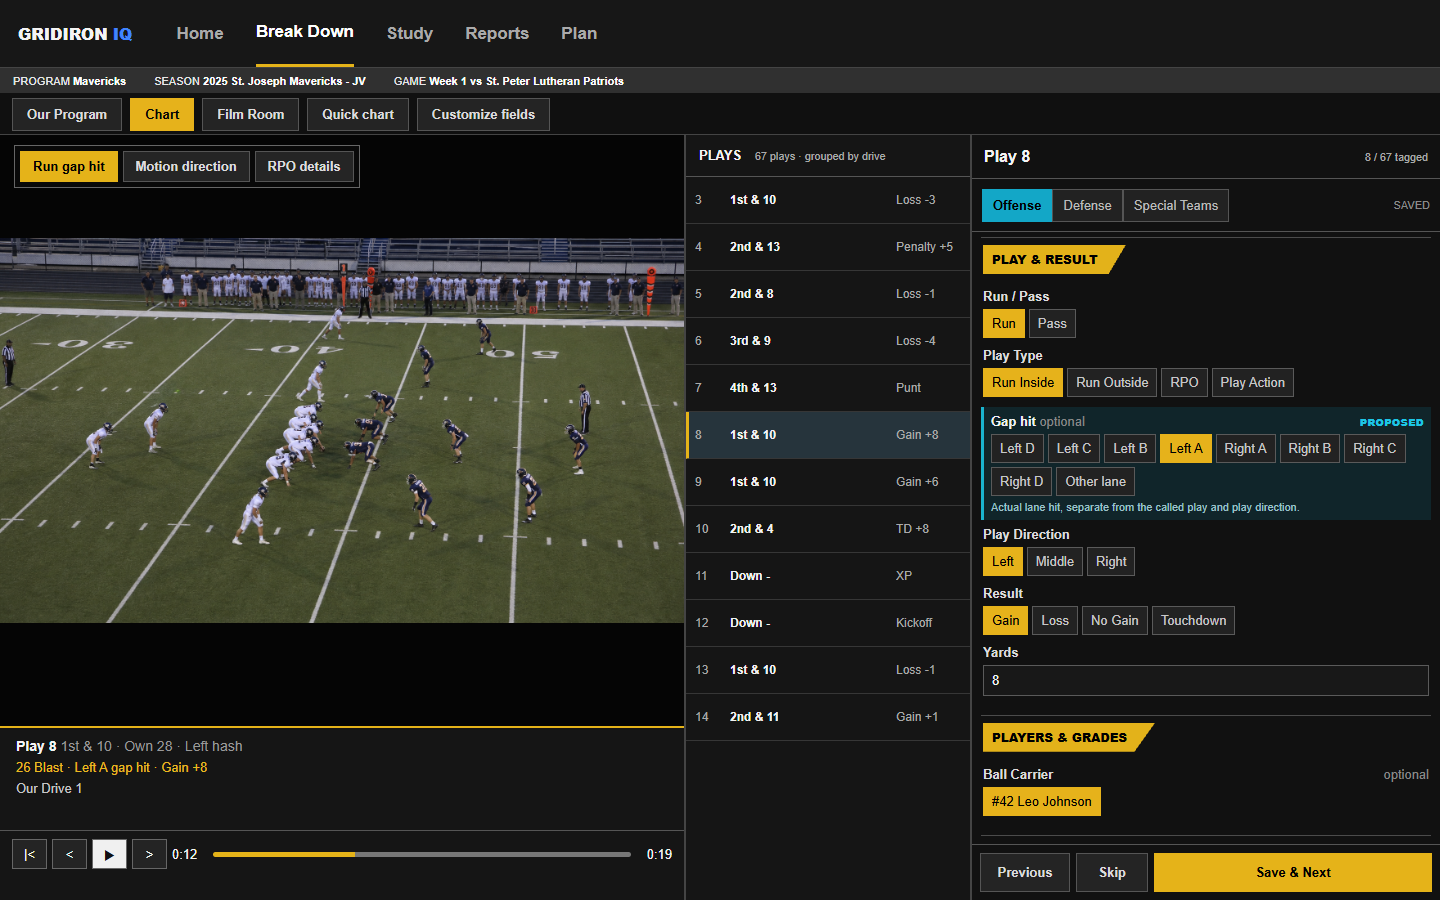
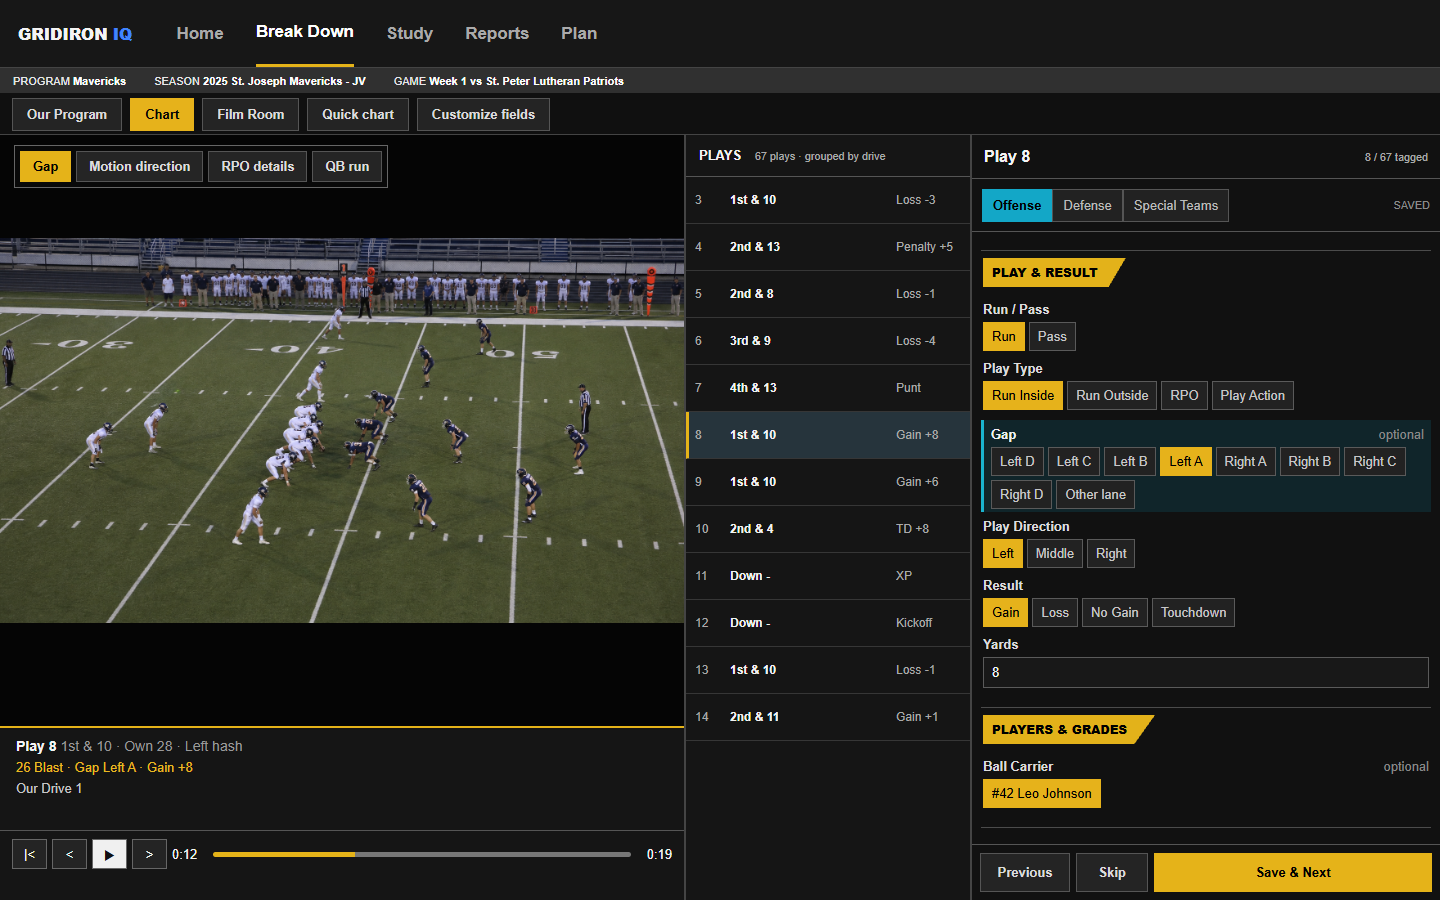
Refine charting comp labels and add QB run state

diff --git a/design-comps/breakdown-charting-2026-09-27/index.html b/design-comps/breakdown-charting-2026-09-27/index.html
@@ -68,8 +68,6 @@
     .new-field { margin:8px -2px 0; padding:7px 7px 3px; border-left:3px solid #1ab4cf; background:#10252a; }
     .new-field .field:first-child { margin-top:0; }
     .new-field .field-label { color:#f2f2f2; }
-    .tag { color:#1dc6e5; text-transform:uppercase; font-size:10px; font-weight:800; letter-spacing:.4px; }
-    .help { color:#9ec1c8; font-size:11px; line-height:1.35; margin:4px 0 2px; }
     .scenario { display:none; }
     .scenario.active { display:contents; }
     .save { display:grid; grid-template-columns:90px 72px minmax(0,1fr); gap:6px; padding:8px; border-top:1px solid #555; }
@@ -92,41 +90,49 @@
       <aside class="plays"><div class="plays-head">PLAYS <small>67 plays · grouped by drive</small></div><div class="play-list"><div class="play-row"><span>3</span><b>1st &amp; 10</b><span>Loss -3</span></div><div class="play-row"><span>4</span><b>2nd &amp; 13</b><span>Penalty +5</span></div><div class="play-row"><span>5</span><b>2nd &amp; 8</b><span>Loss -1</span></div><div class="play-row"><span>6</span><b>3rd &amp; 9</b><span>Loss -4</span></div><div class="play-row"><span>7</span><b>4th &amp; 13</b><span>Punt</span></div><div class="play-row current"><span>8</span><b>1st &amp; 10</b><span>Gain +8</span></div><div class="play-row"><span>9</span><b>1st &amp; 10</b><span>Gain +6</span></div><div class="play-row"><span>10</span><b>2nd &amp; 4</b><span>TD +8</span></div><div class="play-row"><span>11</span><b>Down -</b><span>XP</span></div><div class="play-row"><span>12</span><b>Down -</b><span>Kickoff</span></div><div class="play-row"><span>13</span><b>1st &amp; 10</b><span>Loss -1</span></div><div class="play-row"><span>14</span><b>2nd &amp; 11</b><span>Gain +1</span></div></div></aside>
       <section class="deck" aria-label="Charting deck"><div class="deck-head"><strong>Play 8</strong><small>8 / 67 tagged</small></div><div class="unit"><button class="active">Offense</button><button>Defense</button><button>Special Teams</button><span class="mode">SAVED</span></div><div class="deck-body"><div class="section"><span class="section-title">SITUATION</span><div class="select-line"><div class="field"><div class="field-label">Quarter</div><div class="chips"><button class="chip on">Q1</button><button class="chip">Q2</button></div></div><div class="field"><div class="field-label">Down</div><div class="chips"><button class="chip on">1</button><button class="chip">2</button><button class="chip">3</button></div></div><div class="field"><div class="field-label">Distance</div><input class="input" value="10" aria-label="Distance"></div></div></div>
       <div class="section"><span class="section-title">OUR OFFENSIVE LOOK</span><div class="field"><div class="field-label">Play Call</div><input class="input" id="play-call" value="26 Blast" aria-label="Play call"></div><div class="field"><div class="field-label">Formation</div><div class="chips"><button class="chip">Spread</button><button class="chip">Trips</button><button class="chip on">Power-I</button><button class="chip">Flexbone</button></div></div><div class="field"><div class="field-label">Motion <span class="optional">optional</span></div><div class="chips"><button class="chip" id="jet-chip">Jet</button><button class="chip">Orbit</button><button class="chip">Shift</button><button class="chip">Other</button></div></div>
-      <div class="scenario" data-scenario="motion"><div class="new-field"><div class="field-label"><span>Motion path</span><span class="tag">Proposed</span></div><div class="field"><div class="field-label">Starts</div><div class="chips"><button class="chip on">Left</button><button class="chip">Middle</button><button class="chip">Right</button></div></div><div class="field"><div class="field-label">Ends</div><div class="chips"><button class="chip">Left</button><button class="chip">Middle</button><button class="chip on">Right</button></div></div><div class="help">Offense's perspective. Each endpoint can be left blank.</div></div></div></div>
+      <div class="scenario" data-scenario="motion"><div class="new-field"><div class="field-label">Motion path</div><div class="field"><div class="field-label">Starts</div><div class="chips"><button class="chip on">Left</button><button class="chip">Middle</button><button class="chip">Right</button></div></div><div class="field"><div class="field-label">Ends</div><div class="chips"><button class="chip">Left</button><button class="chip">Middle</button><button class="chip on">Right</button></div></div></div></div></div>
       <div class="section"><span class="section-title cyan">DEFENSE FACED</span><div class="field"><div class="field-label">Front</div><div class="chips"><button class="chip">4-3</button><button class="chip on">5-2</button><button class="chip">3-4</button><button class="chip">Nickel</button></div></div><div class="field"><div class="field-label">Coverage</div><div class="chips"><button class="chip">Cover 1</button><button class="chip on">Cover 3</button><button class="chip">Cover 4</button></div></div></div>
       <div class="section"><span class="section-title">PLAY &amp; RESULT</span><div class="field"><div class="field-label">Run / Pass</div><div class="chips"><button class="chip on">Run</button><button class="chip">Pass</button></div></div><div class="field"><div class="field-label">Play Type</div><div class="chips"><button class="chip on">Run Inside</button><button class="chip">Run Outside</button><button class="chip">RPO</button><button class="chip">Play Action</button></div></div>
-      <div class="scenario" data-scenario="gap"><div class="new-field"><div class="field-label"><span>Gap hit <span class="optional">optional</span></span><span class="tag">Proposed</span></div><div class="chips"><button class="chip">Left D</button><button class="chip">Left C</button><button class="chip">Left B</button><button class="chip on">Left A</button><button class="chip">Right A</button><button class="chip">Right B</button><button class="chip">Right C</button><button class="chip">Right D</button><button class="chip">Other lane</button></div><div class="help">Actual lane hit, separate from the called play and play direction.</div></div></div>
-      <div class="scenario" data-scenario="rpo"><div class="new-field"><div class="field-label"><span>RPO details</span><span class="tag">Proposed vocabulary</span></div><div class="field"><div class="field-label">Read defender <span class="optional">optional</span></div><div class="chips"><button class="chip">End</button><button class="chip on">Apex</button><button class="chip">Box</button><button class="chip">Other</button></div></div><div class="field"><div class="field-label">Defender # <span class="optional">optional</span></div><input class="input" value="" placeholder="Jersey number, if visible" aria-label="Read defender jersey number"></div><div class="field"><div class="field-label">Decision <span class="optional">optional</span></div><div class="chips"><button class="chip">Give</button><button class="chip">Keep</button><button class="chip on">Throw</button></div></div><div class="help">Decision is distinct from the resulting Run / Pass classification.</div></div></div>
+      <div class="scenario" data-scenario="gap"><div class="new-field"><div class="field-label">Gap <span class="optional">optional</span></div><div class="chips"><button class="chip">Left D</button><button class="chip">Left C</button><button class="chip">Left B</button><button class="chip on">Left A</button><button class="chip">Right A</button><button class="chip">Right B</button><button class="chip">Right C</button><button class="chip">Right D</button><button class="chip">Other lane</button></div></div></div>
+      <div class="scenario" data-scenario="rpo"><div class="new-field"><div class="field-label">RPO details</div><div class="field"><div class="field-label">Read defender <span class="optional">optional</span></div><div class="chips"><button class="chip">End</button><button class="chip on">Apex</button><button class="chip">Box</button><button class="chip">Other</button></div></div><div class="field"><div class="field-label">Defender # <span class="optional">optional</span></div><input class="input" value="" placeholder="Jersey number" aria-label="Read defender jersey number"></div><div class="field"><div class="field-label">Decision <span class="optional">optional</span></div><div class="chips"><button class="chip">Give</button><button class="chip">Keep</button><button class="chip on">Throw</button></div></div></div></div>
+      <div class="scenario" data-scenario="qb"><div class="new-field"><div class="field-label">QB run</div><div class="field"><div class="field-label">Run type</div><div class="chips"><button class="chip on">Designed</button><button class="chip">Scramble</button><button class="chip">RPO keeper</button></div></div><div class="field"><div class="field-label">Gap <span class="optional">optional</span></div><div class="chips"><button class="chip">Left D</button><button class="chip">Left C</button><button class="chip">Left B</button><button class="chip">Left A</button><button class="chip">Right A</button><button class="chip on">Right B</button><button class="chip">Right C</button><button class="chip">Right D</button><button class="chip">Other lane</button></div></div></div></div>
       <div class="field"><div class="field-label">Play Direction</div><div class="chips"><button class="chip on">Left</button><button class="chip">Middle</button><button class="chip">Right</button></div></div><div class="field"><div class="field-label">Result</div><div class="chips"><button class="chip on">Gain</button><button class="chip">Loss</button><button class="chip">No Gain</button><button class="chip">Touchdown</button></div></div><div class="field"><div class="field-label">Yards</div><input class="input" value="8" aria-label="Yards"></div></div>
       <div class="section"><span class="section-title">PLAYERS &amp; GRADES</span><div class="field"><div class="field-label"><span id="player-role">Ball Carrier</span> <span class="optional">optional</span></div><div class="chips"><button class="chip on" id="player-name">#42 Leo Johnson</button></div></div></div>
       </div><div class="save"><button>Previous</button><button>Skip</button><button class="primary">Save &amp; Next</button></div></section>
     </main>
   </div>
-  <nav class="review-tabs" aria-label="Comp views"><button data-view="gap" class="active">Run gap hit</button><button data-view="motion">Motion direction</button><button data-view="rpo">RPO details</button></nav>
+  <nav class="review-tabs" aria-label="Comp views"><button data-view="gap" class="active">Gap</button><button data-view="motion">Motion direction</button><button data-view="rpo">RPO details</button><button data-view="qb">QB run</button></nav>
   <script>
     let currentView='gap';
     function selected(group) { return document.querySelector(group+' .chip.on')?.textContent || 'Uncharted'; }
+    function syncExample() {
+      const keeper=currentView==='qb' && selected('[data-scenario="qb"] .field:nth-of-type(2)')==='RPO keeper';
+      document.querySelectorAll('.deck-body .chip').forEach(button => {
+        if (button.closest('.scenario')) return;
+        if (button.textContent==='RPO') button.classList.toggle('on',currentView==='rpo'||keeper);
+        if (button.textContent==='Run Inside') button.classList.toggle('on',currentView!=='rpo'&&!keeper);
+      });
+      const direction=[...document.querySelectorAll('.section .field')].find(field=>field.querySelector('.field-label')?.textContent==='Play Direction');
+      direction?.querySelectorAll('.chip').forEach(button=>button.classList.toggle('on',button.textContent===(currentView==='qb'?'Right':'Left')));
+    }
     function updateSummary() {
       let detail;
-      if (currentView==='gap') detail=`26 Blast · ${selected('[data-scenario="gap"]')} gap hit`;
+      if (currentView==='gap') detail=`26 Blast · Gap ${selected('[data-scenario="gap"]')}`;
       if (currentView==='motion') detail=`Jet motion · ${selected('[data-scenario="motion"] .field:nth-of-type(2)')} to ${selected('[data-scenario="motion"] .field:nth-of-type(3)')}`;
       if (currentView==='rpo') detail=`RPO Glance · ${selected('[data-scenario="rpo"] .field:nth-of-type(2)')} read · ${selected('[data-scenario="rpo"] .field:nth-of-type(4)')}`;
+      if (currentView==='qb') detail=`QB Draw · ${selected('[data-scenario="qb"] .field:nth-of-type(2)')} · Gap ${selected('[data-scenario="qb"] .field:nth-of-type(3)')}`;
       document.getElementById('film-summary').textContent=detail+' · Gain +8';
+      syncExample();
     }
     function show(view) {
       currentView=view;
       document.querySelectorAll('.review-tabs button').forEach(button => button.classList.toggle('active',button.dataset.view===view));
       document.querySelectorAll('.scenario').forEach(panel => panel.classList.toggle('active',panel.dataset.scenario===view));
       updateSummary();
-      document.getElementById('play-call').value=view==='rpo'?'RPO Glance':'26 Blast';
+      document.getElementById('play-call').value=view==='rpo'?'RPO Glance':view==='qb'?'QB Draw':'26 Blast';
       document.getElementById('jet-chip').classList.toggle('on',view==='motion');
       document.getElementById('player-role').textContent=view==='rpo'?'Receiver':'Ball Carrier';
-      document.getElementById('player-name').textContent=view==='rpo'?'#81 Jace Schaffer':'#42 Leo Johnson';
-      document.querySelectorAll('.deck-body .chip').forEach(button => {
-        if (button.closest('.scenario')) return;
-        if (button.textContent==='RPO') button.classList.toggle('on',view==='rpo');
-        if (button.textContent==='Run Inside') button.classList.toggle('on',view!=='rpo');
-      });
+      document.getElementById('player-name').textContent=view==='rpo'?'#81 Jace Schaffer':view==='qb'?'#7 Colton Schurig':'#42 Leo Johnson';
       const resultButtons=[...document.querySelectorAll('.section')].find(section => section.textContent.includes('PLAY & RESULT'))?.querySelectorAll('.field')[0]?.querySelectorAll('.chip');
       if(resultButtons) resultButtons.forEach(button => button.classList.toggle('on',button.textContent===(view==='rpo'?'Pass':'Run')));
       if (innerWidth>650) {
@@ -138,7 +144,7 @@
     }
     document.querySelectorAll('.review-tabs button').forEach(button => button.addEventListener('click',()=>show(button.dataset.view)));
     document.querySelectorAll('.new-field .chips').forEach(group => group.addEventListener('click',event => { const button=event.target.closest('button'); if(!button) return; const wasOn=button.classList.contains('on'); group.querySelectorAll('button').forEach(item=>item.classList.remove('on')); if(!wasOn) button.classList.add('on'); updateSummary(); }));
-    show(['gap','motion','rpo'].includes(location.hash.slice(1))?location.hash.slice(1):'gap');
+    show(['gap','motion','rpo','qb'].includes(location.hash.slice(1))?location.hash.slice(1):'gap');
   </script>
 </body>
 </html>

diff --git a/design-comps/breakdown-charting-2026-09-27/RATIONALE.md b/design-comps/breakdown-charting-2026-09-27/RATIONALE.md
@@ -2,14 +2,15 @@
 
 Status: proposal only. The coach has not approved the field design or vocabulary. This comp changes no production code, stored charting data, analytics, or installer.
 
-Open `index.html` and switch between Run gap hit, Motion direction, and RPO details. The existing Chart workspace and section order are preserved. A cyan inset highlights each proposed field group; the rest of the deck provides placement and density context. The game/play values are illustrative, not a claim about the canonical season. The film is a repository asset used as a visual fixture.
+Open `index.html` and switch between Gap, Motion direction, RPO details, and QB run. The existing Chart workspace and section order are preserved. A cyan inset highlights each proposed field group; the rest of the deck provides placement and density context. The game/play values are illustrative, not a claim about the canonical season. The film is a repository asset used as a visual fixture. On-screen explainer prose was removed at the coach's request; rationale remains here.
 
 ## Placement and behavior proposed
 
-- Run gap hit belongs in Play & Result beside Play Type and Play Direction. It records the actual lane hit, not the called gap. A/B/C/D are paired with left/right, plus Other lane. It is optional and does not change yardage or run classification.
+- Gap belongs in Play & Result beside Play Type and Play Direction. It records the actual lane hit, not the called gap. A/B/C/D are paired with left/right, plus Other lane. It is optional and does not change yardage or run classification.
 - Motion path belongs directly after Motion in Our Offensive Look. Start and end are separately optional; both use the offense's left/middle/right perspective. Motion type remains its own tag.
 - RPO details appear only for an RPO play. Read defender and decision are separate from the existing Play Type and Run/Pass result. End/Apex/Box/Other and Give/Keep/Throw are provisional vocabulary.
 - The film detail line echoes the new selection as soon as the view changes, so the coach can verify the tag without scrolling back through the deck. A defender jersey number is an optional RPO detail when it is visible on film; no number is inferred.
+- QB run is a distinct review state with Designed, Scramble, and RPO keeper choices, plus the same optional Gap vocabulary. It charts intent separately from Run/Pass and the QB as ball carrier. This expands the comp only; its separate future roadmap priority has not been moved into implementation scope.
 - New chips keep the current deck's text size and use compact vertical padding. There is no separate wizard or modal and no change to Save & Next.
 
 ## Coach decisions before implementation
@@ -18,6 +19,7 @@ Open `index.html` and switch between Run gap hit, Motion direction, and RPO deta
 2. Should motion path use left/middle/right, a precise origin/destination (e.g. wide/slot/backfield), or both? Should it capture who moved?
 3. For RPO, which read types and decisions do your coaches actually chart? Should the read defender identify a player, a defender role, or both?
 4. Is the placement and density usable in the live deck at desktop and narrower widths?
+5. Should QB run classification join this implementation checkpoint, and are Designed, Scramble, and RPO keeper the right mutually exclusive choices?
 
 Implementation, if approved, needs owned tag definitions, editing/clear semantics, Film Room columns and detail, reporting/export handling, and focused tests. No historical plays should be inferred or backfilled.
 
@@ -29,4 +31,4 @@ Implementation, if approved, needs owned tag definitions, editing/clear semantic
 
 ## Visual check
 
-The three views were captured at 1440x900 and 390x844. Each view shows its own proposed group, the film asset loads, and neither viewport has horizontal document overflow. The screenshots are review evidence, not production acceptance.
+The four views were captured at 1440x900 and 390x844. Each view shows its own proposed group, the film asset loads, and neither viewport has horizontal document overflow. The screenshots are review evidence, not production acceptance.
